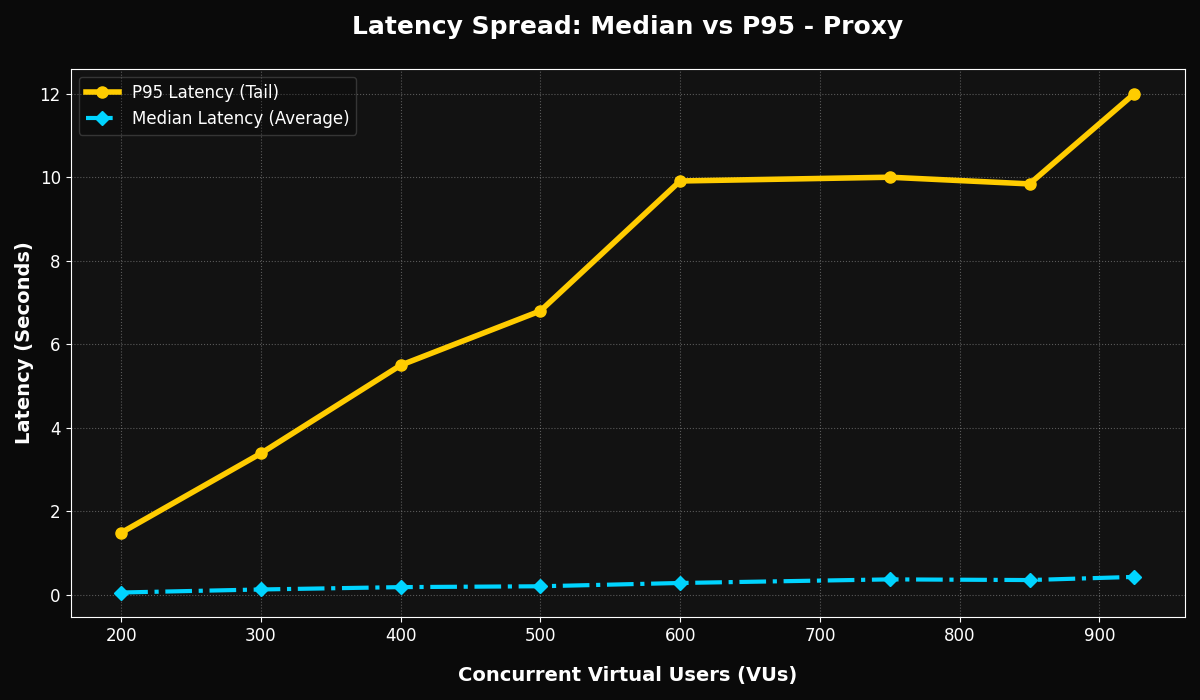
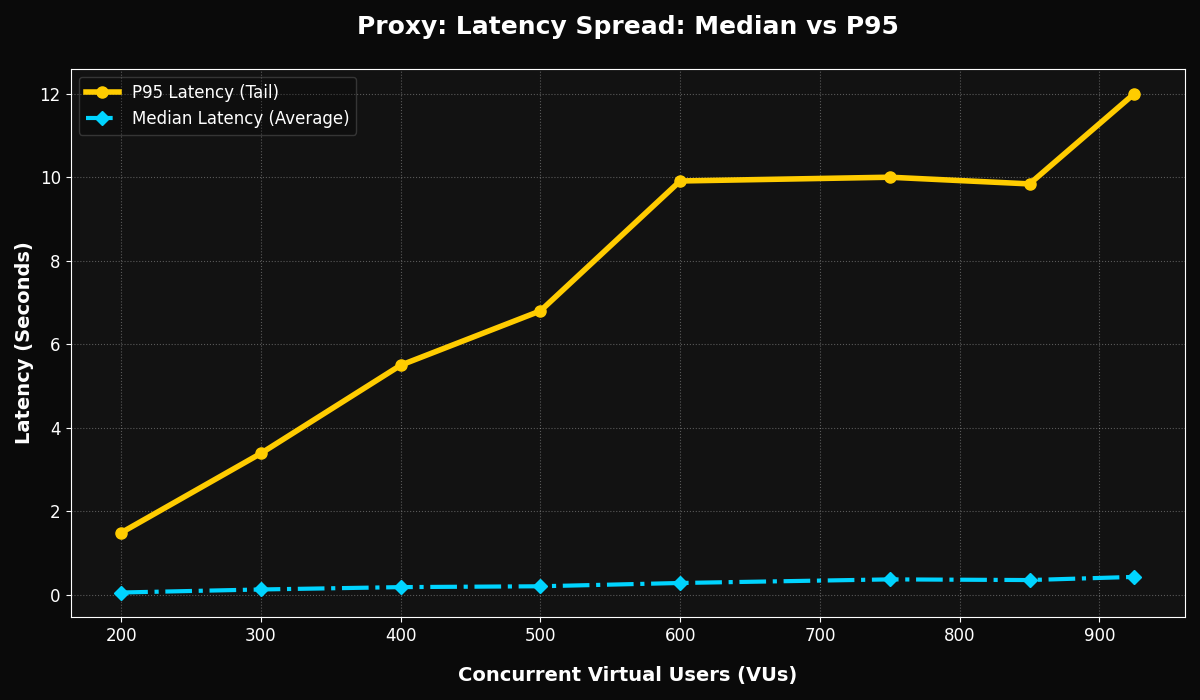
add final imgs and stress test report

Changed region(s): [[0.2775, 0.0, 0.7708, 0.06]]

diff --git a/load-test-res/datavis/proxy3.py b/load-test-res/datavis/proxy3.py
@@ -19,7 +19,7 @@ ax1.set_xlabel('Concurrent Virtual Users (VUs)', fontsize=14, fontweight='bold',
 ax1.set_ylabel('Latency (Seconds)', color='#ffffff', fontsize=14, fontweight='bold')
 ax1.tick_params(axis='both', labelcolor='#ffffff', labelsize=12)
 
-plt.title('Latency Spread: Median vs P95 - Proxy', fontsize=18, fontweight='bold', pad=25, color='#ffffff')
+plt.title('Proxy: Latency Spread: Median vs P95', fontsize=18, fontweight='bold', pad=25, color='#ffffff')
 ax1.grid(True, linestyle=':', alpha=0.3, zorder=1)
 ax1.legend(fontsize=12, loc='upper left', framealpha=0.2)
 

diff --git a/load-test-res/datavis/mp2.py b/load-test-res/datavis/mp2.py
@@ -22,7 +22,7 @@ ax2.plot(df['VU'], df['p95_latency_s'], marker='s', color='#ffcc00',
 ax2.set_ylabel('p95 Latency (Seconds)', color='#ffcc00', fontsize=14, fontweight='bold')
 ax2.tick_params(axis='y', labelcolor='#ffcc00', labelsize=12)
 
-plt.title('Proxy: Throughput vs p95 Latency', fontsize=18, fontweight='bold', pad=25, color='#ffffff')
+plt.title('S3 Multipart: Throughput vs p95 Latency', fontsize=18, fontweight='bold', pad=25, color='#ffffff')
 ax1.grid(True, linestyle=':', alpha=0.3, zorder=1)
 plt.tight_layout()
 plt.show()

diff --git a/notes/Load-n-Stress-Test-Report.md b/notes/Load-n-Stress-Test-Report.md
@@ -1,4 +1,4 @@
-# Load testing GoVault - A Deep-Dive Performance Analysis Report
+# Load and Stress testing GoVault - A Deep-Dive Performance Analysis Report
 
 ---
 ## **Table of Contents**
@@ -7,7 +7,7 @@
 2. **Core Concepts & Terminology**
 3. **Test Methodology & VU Lifecycle**
 4. **Performance Metrics & Analysis**
-5. **The Engineering Journey: Optimizations**
+5. **The Engineering Journey: Optimizations and learnings**
 6. **Conclusion**
 
 ---
@@ -17,24 +17,37 @@
 
 This report covers the local performance testing of **GoVault**, a cloud-native file storage system.
 - **Core Tech:** Built using the **Go (Golang) `net/http` standard library**. By avoiding heavy frameworks, the backend remains extremely lightweight, providing high execution speed and low memory overhead.
-- **Objective:** The tests compare two ways of uploading files: **Proxy-Based** (through the backend) and **Direct-to-S3** (using MinIO).
+- **Objective:** The goal of these tests was not just to compare upload strategies, but to identify saturation points, quantify throughput limits, and observe how architectural choices affect system behavior under stress.
 ### **System Architecture**
 
 The system uses a **microservices** design. To test this, I simulated a full production stack using **Docker Compose**, running multiple containers simultaneously:
 
 - **4 Go Services:** Gateway, Auth, Upload, and Files.
 - **3 PostgreSQL Instances:** Dedicated database for each core service.
-- **Object Storage:** **MinIO** (S3-compatible) for file storage.
+- **Object/File Storage:** **MinIO** (S3-compatible) for file storage.
 - **Observability:** **Prometheus** and **Grafana** for tracking metrics.
+
+I used MinIO locally instead of S3 in order to avoid cloud costs. As MinIO was fully S3 compatible, it was easy to set up.
 ### **Tools Used**
-- **k6:** For simulating concurrent users and file uploads.
+- **k6:** For simulating concurrent user workflows and file uploads.
 - **Prometheus & Grafana:** For monitoring system health and speed.
-- **Zap:** For high-performance structured logging.
 ### **Testing Environment & Limits**
 
-> **Strictly Local Test:** These tests were run on a single machine (**AMD Ryzen 5, 16GB RAM**) using **Windows with WSL2**.
-> 
-> Running **10+ containers** (4 services, 3 databases, MinIO, Prometheus, and Grafana) on one machine creates significant CPU and I/O overhead due to the WSL2 virtualization layer. This makes the system less efficient than a real cloud environment, but it accurately shows how the architecture handles stress
+**Strictly Local Test:** These tests were run on a single machine (**AMD Ryzen 5, 16GB RAM**) using **Windows with WSL2**.
+
+Running **10+ containers** (4 services, 3 databases, MinIO, Prometheus, and Grafana) on one machine creates significant CPU and I/O overhead due to the WSL2 virtualization layer. This makes the system less efficient than a real cloud environment, but it accurately shows how the architecture handles stress and the bottlenecks.
+
+#### A recap of the 2 upload workflows:
+#### **Proxy-Based 
+
+The backend acts as a bridge. The frontend slices the file into 10MB chunks and sends them to the Go backend. The backend receives the raw bytes, calculates a checksum (SHA-256) to ensure the data isn't corrupted, assembles all chunks and then streams those bytes to S3/MinIO. It’s essentially a "Pass-Through" where the server handles every single bit of the file.
+#### **Direct S3 (The Handshake)**
+
+The backend acts as a coordinator, not a data mover.
+1. The frontend asks the backend for permission to upload.
+2. The backend talks to S3 and gets a **Presigned URL** (a temporary "key" for the bucket).
+3. The frontend then pushes the file chunks **directly to S3**, skipping the Go backend entirely.
+4. Once finished, the frontend just tells the backend, "I’m done, here are the receipt IDs (ETags)."
 
 
 
@@ -42,11 +55,24 @@ The system uses a **microservices** design. To test this, I simulated a full pro
 
 
 # 2. Core Concepts & Terminology
+
+### Tools being used:
+To understand a distributed system, you need to see inside it. I used three industry-standard tools to act as the "black box" flight recorder for these tests, all internally built using go:
+
+- **k6 (The Attacker):** This is basically a high-speed battering ram. It’s a tool that lets me write a script (Login -> Upload -> Finish) and tells hundreds of "Virtual Users" to run that loop as fast as humanly possible. It doesn't care if the server is screaming; it just keeps hitting it until something snaps.
+    
+- **Prometheus (The Collector):** Its like a "black box" flight recorder. While the test is running, Prometheus sits in the background and grabs data every couple of seconds—CPU usage, RAM spikes, and every single HTTP metrics, which i mainly focused on. It stores all that raw data so I can look at it later.
+    
+- **Grafana (The Dashboard):** This is the "Control Room" with all the shiny graphs. It takes the messy data from Prometheus and turns it into real-time basic charts. 
+
+---
 ### **1. Virtual Users (VUs) vs. Actual Users**
 
 In `k6`, we use **Virtual Users (VUs)**.
-- **The Difference:** A real user might click a button and then spend 30 seconds reading a page. A **VU** is a script that executes a loop as fast as possible.
+- **The Difference:** A real user might click a button and then spend 30 seconds reading a page. A **VU** is a script that executes a loop as fast as possible. Because there’s no pause between actions, VUs stress the system much more aggressively than real users.
+
 - **The Mapping:** 50 VUs do not equal 50 people; they might represent 500+ real-world users because the VUs never "stop to think"—they just keep hitting the API.
+
 ### **2. Percentiles (p95, p99) – Why Averages Lie**
 
 If 99 people get their file in 1 second, but 1 person takes 60 seconds, the "Average" looks okay, but the experience for that one person is broken.
@@ -88,15 +114,6 @@ Go handles traffic differently than many other languages, which affects how it b
 - **The "Wait" Factor:** Even though Goroutines are fast, if the Gateway is waiting for a response from the Upload Service, that Goroutine stays active. If the backend is slow, these Goroutines pile up, increasing memory usage and latency.
 
 
-
-### 6. Tools being used:
-To understand a distributed system, you need to see inside it. I used three industry-standard tools to act as the "black box" flight recorder for these tests, all internally built using go:
-
-- **k6 (The Attacker):** This is basically a high-speed battering ram. It’s a tool that lets me write a script (Login -> Upload -> Finish) and tells hundreds of "Virtual Users" to run that loop as fast as humanly possible. It doesn't care if the server is screaming; it just keeps hitting it until something snaps.
-    
-- **Prometheus (The Collector):** Its like a "black box" flight recorder. While the test is running, Prometheus sits in the background and grabs data every couple of seconds—CPU usage, RAM spikes, and every single HTTP metrics, which i mainly focused on. It stores all that raw data so I can look at it later.
-    
-- **Grafana (The Dashboard):** This is the "Control Room" with all the shiny graphs. It takes the messy data from Prometheus and turns it into real-time basic charts. 
 
 
 
@@ -215,7 +232,8 @@ Looking at the results, there are a few things that aren't immediately clear:
 
 # **4. Performance Metrics & Analysis**
 
-In this section, I break down the core performance differences between the **Proxy-Based** and **Direct S3 Multipart** strategies. I used my CSV datasets to compare how the system handles increasing concurrency.
+The data here isn't surprising—Direct S3 wins—but the scale of the performance difference under heavy load is what's actually interesting. I used my CSV datasets to compare how the system handles increasing concurrency.
+
 
 ### **Live Monitoring: Grafana Dashboard**
 
@@ -276,10 +294,9 @@ While I used **Grafana** for real-time monitoring, I relied on **k6 CSV exports*
 | **850**      | Proxy         | 155                  | 357ms              | 9.84s           | 14.0%          |
 | **850**      | **Multipart** | **170**              | **437ms**          | **10.5s**       | **0.73%**      |
 |              |               |                      |                    |                 |                |
-|              |               |                      |                    |                 |                |
 | 925          | **Multipart** | **178**              | **492ms**          | **10.4**        | **1.89%**      |
 | 1000         | **Multipart** | **176**              | **496ms**          | **11.9**        | **2.27%**      |
-
+The goal wasn’t just comparison — it was identifying saturation points and failure behavior.
 
 ---
 
@@ -377,7 +394,7 @@ Initially, I used **Bcrypt** for password hashing during the Auth phase. I quick
 
 
 
-# **5. The Engineering Journey: Optimization & Lessons**
+# **5. The Engineering Journey: Problems, Optimization & Lessons**
 
 This project wasn't just about collecting numbers; it was about watching a distributed system break and re-engineering it in real-time. Here is what I learned through the "book of tests."
 
@@ -421,7 +438,7 @@ This project was a masterclass in **Resource Saturation**. I saw firsthand how f
 
 - **Root Cause:** 99% of my failures weren’t due to "bad code"; they were caused by **resource exhaustion**. When your CPU and RAM hit that 95% wall, the "laws of physics" take over. The system begins to drift, and even the most efficient Go code can't save you if the OS can't find a spare CPU cycle to run it.
 
-- **Theoretical Mastery:** I now have a deep understanding of how distributed systems actually fail—from **TCP exhaustion** and **Head-of-Line blocking** to **Disk I/O contention**. More importantly, I’ve learned the foundation of architectural patterns needed to overcome these bottlenecks in a real production environment.
+- **Practical Depth:** I now have a deep understanding of how distributed systems actually fail—from **TCP exhaustion** and **Head-of-Line blocking** to **Disk I/O contention**. More importantly, I’ve learned the foundation of architectural patterns needed to overcome these bottlenecks in a real production environment.
 
 
 
@@ -436,7 +453,7 @@ To wrap up the analysis, I want to talk about a major "ghost in the machine" mom
 
 ## **The Ghost Iteration Problem**
 
-I found a confusing gap between my test logs and my actual storage. Even though **k6 reported 13,425 iterations finished**, my **Postgres** and **MinIO** storage only showed **624 unique user folders**.
+I found a confusing gap between my test logs and my actual storage. Even though I ran 850 VUs, my **Postgres** and **MinIO** storage only showed **624 unique user folders**.
 
 Basically, over 200 of my 850 Virtual Users seemed to "finish" their work without actually leaving a single trace in the database or the cloud. It was like they never existed.
 
@@ -447,12 +464,9 @@ After digging into the architecture, I found three main reasons for this "Succes
 
 #### **1. The "Race to the Bottom" (Resource Starvation)**
 
-Since my Go backend handles everything—Auth and File Metadata—850 VUs were all fighting for a tiny pool of **Database Connections**.
+Under heavy load (~850 VUs), many concurrent requests competed for a limited PostgreSQL connection pool. Some requests acquired connections and completed successfully, while others blocked and eventually timed out.
 
-- The "fast" users (the ones who got a connection first) would finish multiple loops.
-- The "slow" users (the ones waiting in line) were completely starved of resources.
-    
-    Because k6 counts an iteration as "complete" even if the script just finishes its loop after a failure, the total count looked high, but the actual data never made it to the disk.
+Because the k6 script loop continues even when individual requests fail (unless explicitly stopped), iteration counts remained high — even though some operations never successfully persisted data.
 
 #### **2. The OS Wall (TCP Exhaustion)**
 
@@ -476,7 +490,42 @@ Since this was due to resource saturation, there was no way I could fix this loc
 
 ### **Theoretical Fix: The Redis "Shock Absorber"**
 
-To solve the **"Ghost Iteration"** and **Database Starvation** issues, the next logical step in this architecture is adding a **Redis layer**.
+To solve the **"Ghost Iteration"** and **Database Starvation** issues, some of the methods might include:
+#### **1. Increasing the DB Connection Pool**
+
+If the Go services are only allowed 20 connections to the postgres DB, but 850 users are hitting them, of course, they’re going to queue up and die.
+
+- **The Fix:** Simply bumping the `MaxOpenConns` in the Go code or the `max_connections` in Postgres.
+    
+- **The Catch:** This isn't infinite. Eventually, the Postgres CPU will melt because it has to manage the overhead of all those open connections. Each connection uses RAM. You'd move the bottleneck from "the pool is too small" to "the database server is out of memory."
+
+#### **2. Read/Write Replicas**
+
+Since the VUs were doing "Home page simulations" (Read) and "Uploads" (Write) at the same time, they were fighting for the same resources.
+
+- **The Fix:** Pointing all the "Owned Files" and "Shared Files" queries to a **Read Replica** (a copy of the DB). Keeping the **Primary DB** strictly for uploads and metadata writes.
+    
+- **The Catch:** On my laptop, this wouldn't help much because both DBs would still be fighting for the same physical SSD and CPU cycles. In the cloud, this is surely a game changer.
+
+#### **3. PgBouncer (Connection Pooling)**
+
+PostgreSQL uses a process-per-connection model, meaning each client connection spawns a dedicated OS process.
+
+- **The Fix:** Put **PgBouncer** in front of Postgres. It acts as a "waiting room." It keeps a small set of "real" connections to the DB and rotates thousands of incoming requests through them. It’s way more efficient than Go managing its own pool.
+
+#### **4. Message Queues (The "Async" Way)**
+
+Instead of trying to write to the DB the exact second the upload finishes:
+
+- **The Fix:** The Upload service could just drop a message into a queue (like **RabbitMQ** or **Kafka**). A background worker then picks it up and updates the Files service whenever the DB has a spare second.
+    
+- **The Catch:** This makes the system "Eventually Consistent." The user might finish the upload and not see their file for a few seconds.
+
+#### **5. Horizontal Scaling**
+
+- **The Fix:** Just run 5 instances of the `Files` service instead of one.
+    
+- **The Catch - Mira-Bhayander fly over:** If the bottleneck is the single Postgres instance at the bottom, adding more "workers" just makes them slam the DB even harder. It’s like adding more lanes to a road that ends in a one-lane bridge. 
 
 - **Rate Limiting:** Instead of letting 850 VUs slam the PostgreSQL instance all at once, I could use Redis to implement a global **Rate Limiter**. This would "reject" excess traffic at the Gateway before it ever hits the expensive Database or Disk I/O.
     
@@ -491,7 +540,7 @@ To solve the **"Ghost Iteration"** and **Database Starvation** issues, the next 
 
 # **6. Conclusion**
 
-The performance testing of GoVault proved one thing: **Architecture matters more than raw hardware.** Even on a single local machine with the overhead of WSL2, the shift from a Proxy-based model to a Direct S3 Multipart strategy transformed how the system handled pressure.
+The performance testing of GoVault didn’t reveal anything unexpected — Proxy-based uploads are naturally heavier. What it did provide was measurable data on where saturation begins and how failure patterns emerge under load.
 
 ### **The Reality of Local Stress Testing**
 
@@ -514,11 +563,12 @@ Look, testing on a laptop isn't the same as testing on a thousand-node cluster, 
 
 ---
 
+
 ### **Final Thoughts**
 
 This marks the end of **3 months of hard grinding**. What started as a cloud-native file storage idea turned into a deep-dive into how distributed systems live, breathe, and eventually break. Seeing the "Ghost Iterations" and "Metric Walls" in real-time made me realize that building for scale isn't just about writing code—it's about managing resources and predicting failures.
 
-Distributed systems are incredibly fun (and frustrating), and watching GoVault survive a 1,000 VU storm was the perfect way to wrap up this journey. It’s been a wild ride seeing my baby, GoVault, go from a few lines of Go code to a battle-hardened system that held its own against a massive wave of traffic.
+Distributed systems are incredibly fun (and frustrating), and watching GoVault survive a 1,000 VU storm was the perfect way to wrap up this journey. It’s been a wild ride seeing my kid, GoVault, go from a few lines of Go code to a battle-hardened system that held its own against a massive wave of traffic.
 
 If you read the whole thing, Congratulations!!!! Do let me know your thoughts and takeaways!
 

diff --git a/README.md b/README.md
@@ -1,6 +1,6 @@
 # GoVault
 
-**A Microservices-Based Cloud File Storage System**
+A Micoservices-based Cloud File Storage System, like Google Drive that allows users to upload, store, and manage their files securely using multiple backend services working together.
 
 ---
 # Dependencies: 
